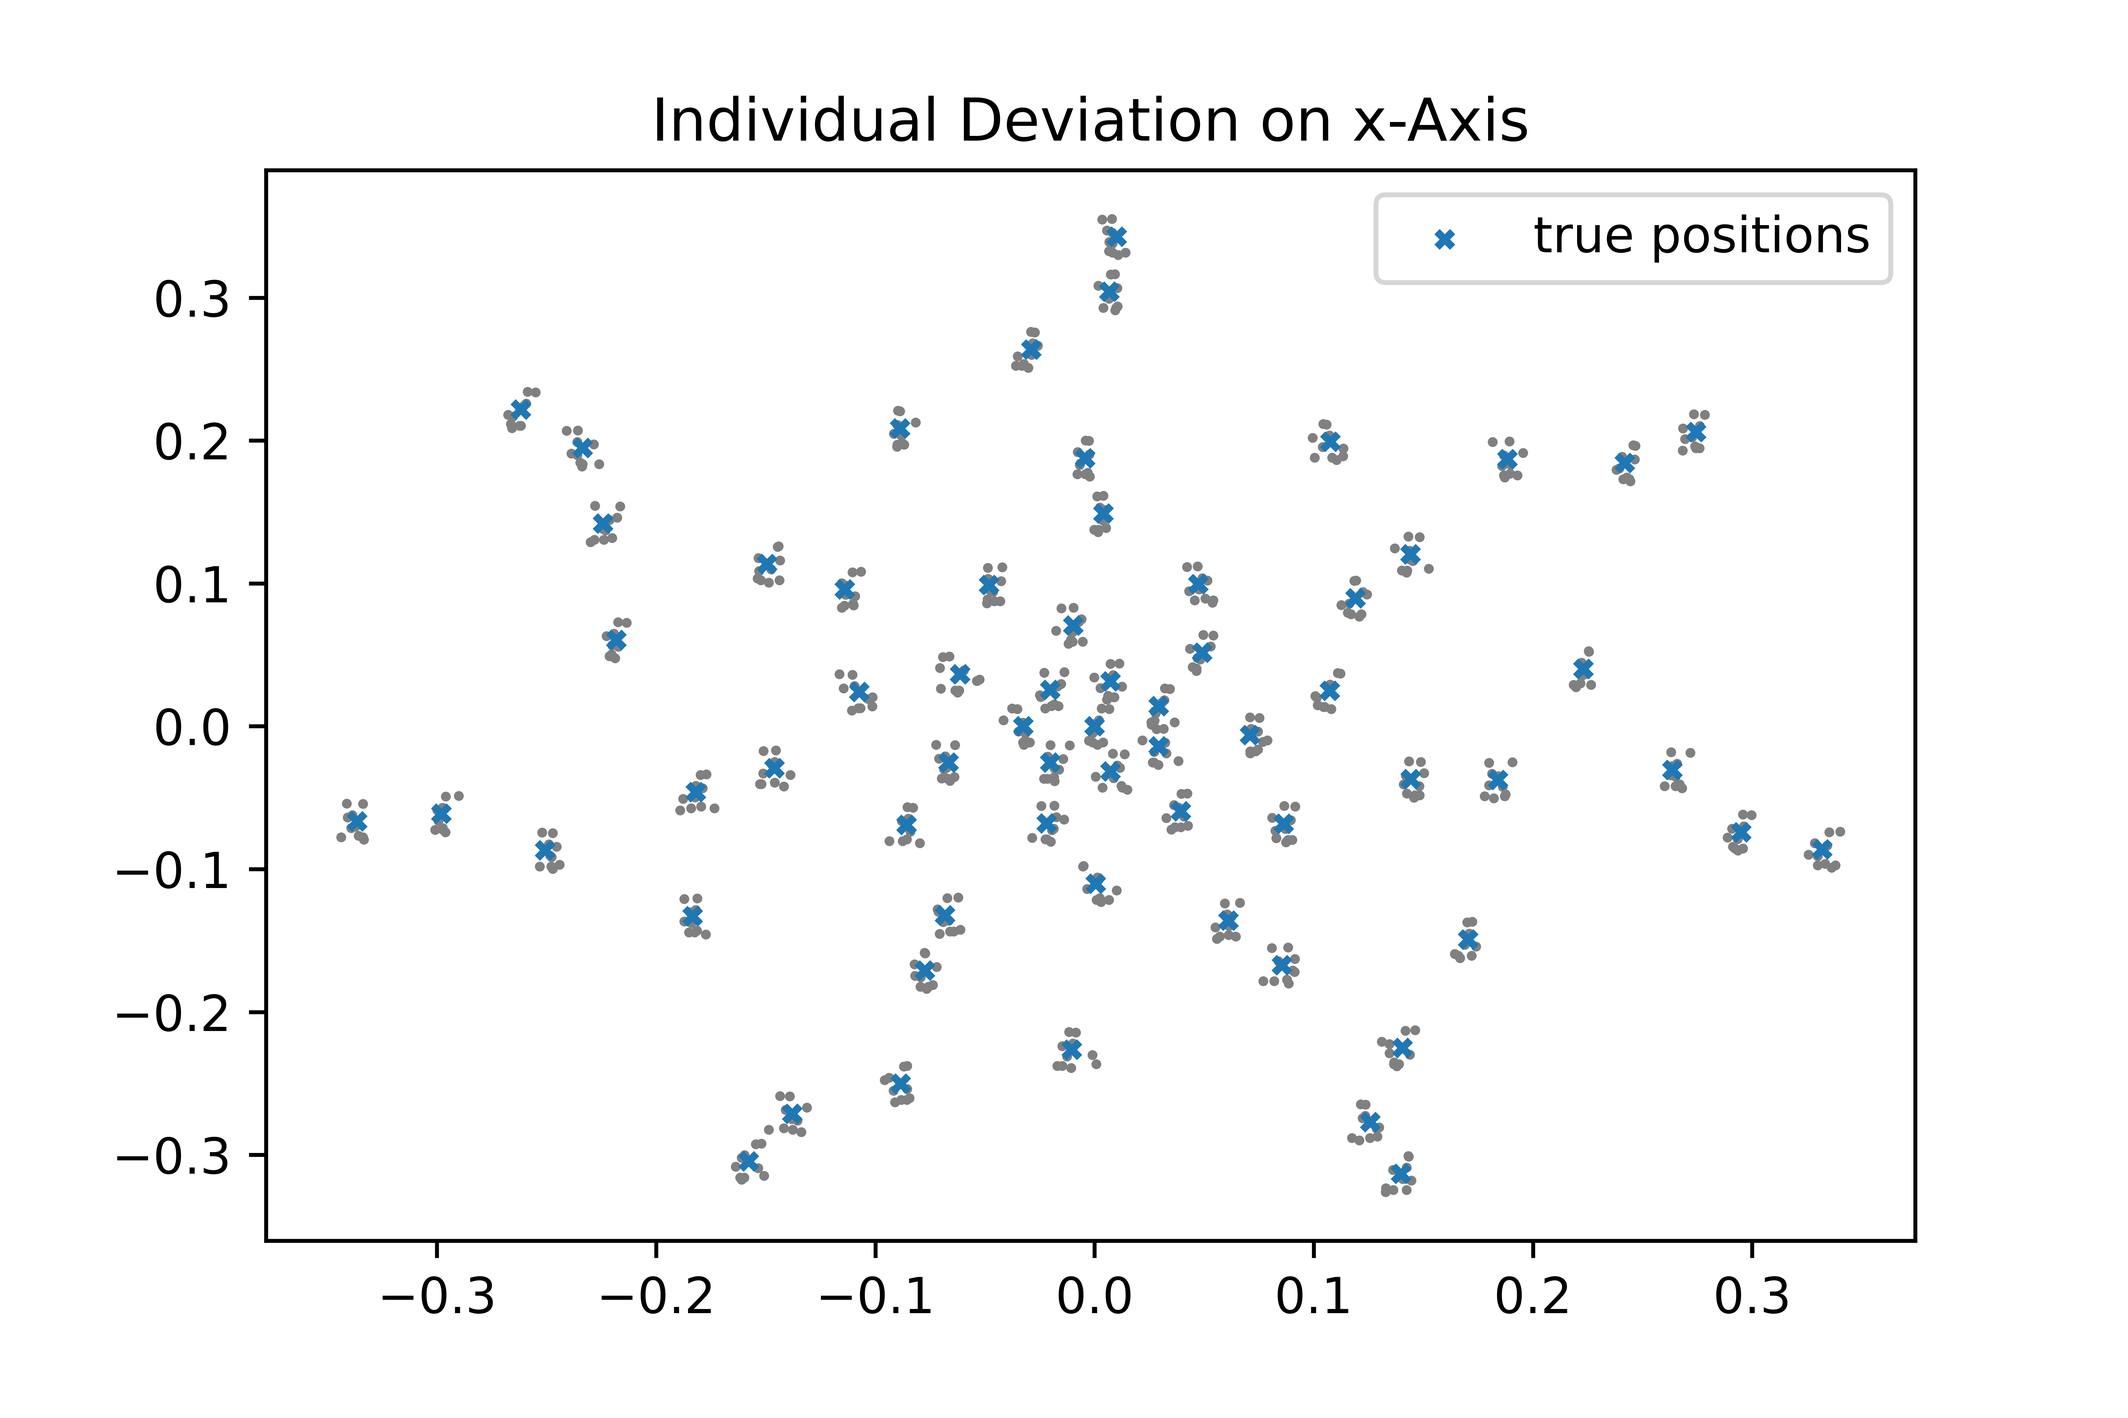
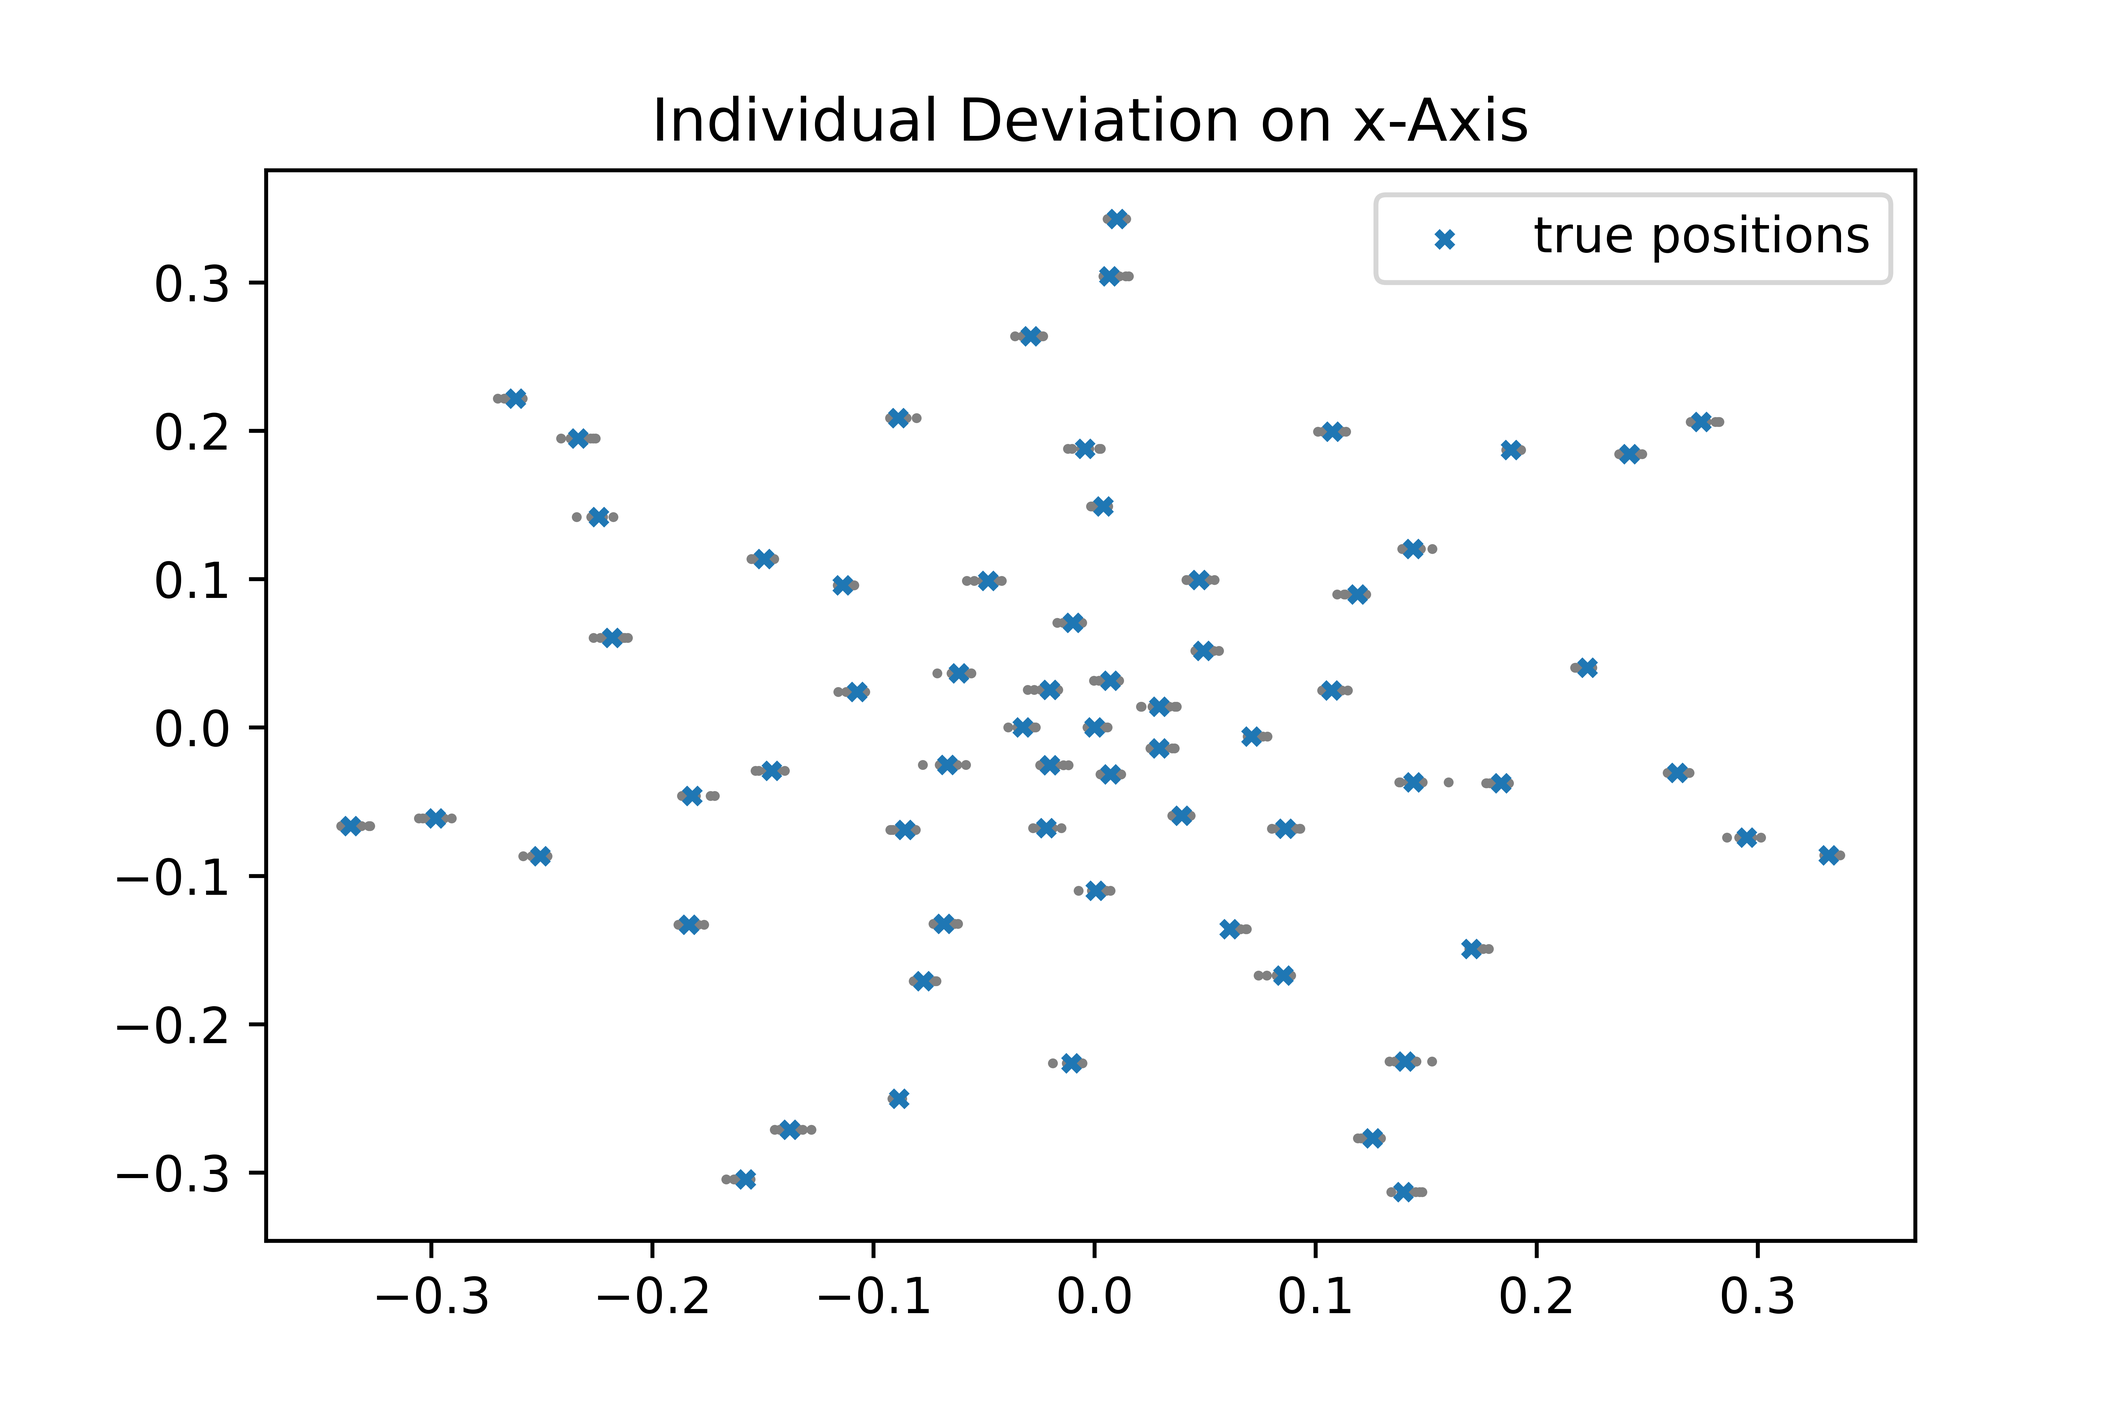
Proofread

diff --git a/examples/micgeom_sampling_example.py b/examples/micgeom_sampling_example.py
@@ -1,4 +1,3 @@
-#%%
 #!/usr/bin/env python3
 # -*- coding: utf-8 -*-
 
@@ -28,29 +27,14 @@ mgs = MicGeomSampler(random_var=normal_distribution,
                      random_state=rng, 
                      target=mics)
 
-#%%
+
 # =============================================================================
 # # first deviate individual microphone positions along x-axis
 # =============================================================================
 mgs.ddir = np.array([[1.],[0],[0]])
 
 plt.figure()
-plt.title("Individual Deviation on x-Axis")
-for _ in range(nsamples):
-    mgs.sample()
-    plt.scatter(mics.mpos[0], mics.mpos[1],marker="o",s=1,color="gray")
-plt.scatter(mgs.mpos_init[0], mgs.mpos_init[1],marker='x',s=10,label="true positions")
-plt.legend()   
-plt.show()
-
-#%%
-# =============================================================================
-# # second: deviate individual microphone positions along x- and y-axis
-# =============================================================================
-mgs.ddir = np.array([[1.],[0.5],[0]])
-
-plt.figure()
-plt.title("Individual Deviation on x- and y- Axis")
+plt.title("individual deviation on x-axis")
 for _ in range(nsamples):
     mgs.sample()
     plt.scatter(mics.mpos[0], mics.mpos[1],marker="o",s=1,color="gray")
@@ -58,7 +42,22 @@ plt.scatter(mgs.mpos_init[0], mgs.mpos_init[1],marker='x',s=10,label="true posit
 plt.legend()    
 plt.show()
 
-#%%
+
+# =============================================================================
+# # second: deviate individual microphone positions along x- and y-axis
+# =============================================================================
+mgs.ddir = np.array([[1.],[0.5],[0]])
+
+plt.figure()
+plt.title("individual deviation on x- and y- axis")
+for _ in range(nsamples):
+    mgs.sample()
+    plt.scatter(mics.mpos[0], mics.mpos[1],marker="o",s=1,color="gray")
+plt.scatter(mgs.mpos_init[0], mgs.mpos_init[1],marker='x',s=10,label="true positions")
+plt.legend()    
+plt.show()
+
+
 # =============================================================================
 # third: rotate around axis
 # =============================================================================
@@ -69,7 +68,7 @@ mgs.ddir = np.array([[0.0],[0.0],[0.0]]) # no individual deviation
 mgs.rvec = np.array([[0], [0], [1]])
 
 plt.figure()
-plt.title("Rotation Around z-Axis")
+plt.title("rotation around z-axis")
 for _ in range(nsamples):
     mgs.sample()
     plt.scatter(mics.mpos[0], mics.mpos[1],marker="o",s=1,color="gray")
@@ -77,7 +76,7 @@ plt.scatter(mgs.mpos_init[0], mgs.mpos_init[1],marker='x',s=10,label="true posit
 plt.legend()    
 plt.show()
 
-#%%
+
 # =============================================================================
 # fourth: translate full array along y-axis
 # =============================================================================
@@ -86,13 +85,10 @@ mgs.rvec = np.array([[0], [0], [0]])
 mgs.tdir = np.array([[0], [2.], [0]])
 
 plt.figure()
-plt.title("Translation of Full Geometry Along y-Axis")
+plt.title("translation of full geometry along y-axis")
 for _ in range(nsamples):
     mgs.sample()
     plt.scatter(mics.mpos[0], mics.mpos[1],marker="o",s=1,color="gray")
 plt.scatter(mgs.mpos_init[0], mgs.mpos_init[1],marker='x',s=10,label="true positions")
 plt.legend()    
-plt.savefig("output.png",dpi=1200) 
 plt.show()
-
-# %%

diff --git a/sphinx/source/contents/dataset.rst b/sphinx/source/contents/dataset.rst
@@ -29,7 +29,7 @@ Docker image from DockerHub_. Simply pull the latest image with the command
     docker pull adku1173/acoupipe:latest
 
 The image contains the simulation source code and an up-to-date version of Acoular_, 
-AcouPipe and Tensorflow_.
+**AcouPipe** and Tensorflow_.
 One can run the dataset simulation given by the main.py script from inside the Docker container by typing
 
 .. code-block:: 
@@ -40,9 +40,9 @@ One can run the dataset simulation given by the main.py script from inside the D
 
 Note that the current user on the host is specified as the user of the docker environment with the additional argument :code:`--user "$(id -u)":"$(id -g)"`.
 It is not recommended to run the container as a root user.
-Further, a directory where the dataset files are stored needs to be binded to the container (:code:`HOSTDIR=<dir>`). With the 
-:code:`HOSTDIR=$(pwd)` command, the current working directory on Linux or macOS hosts are binded. 
-The simulation can be run on multiple CPU threads in parallel to speed up computations. The exact number of threads can be specified by the 
+Further, a directory where the dataset files are stored needs to be bound to the container (:code:`HOSTDIR=<dir>`). With the 
+:code:`HOSTDIR=$(pwd)` command, the current working directory on Linux or macOS hosts is bound. 
+The simulation can be run on multiple CPU threads in parallel to speed up computations and the exact number of threads can be specified by the 
 user with the :code:`--tasks` argument. 
 
 After starting the main script, a progress bar should appear that logs the current simulation status:
@@ -51,7 +51,7 @@ After starting the main script, a progress bar should appear that logs the curre
 
     1%|█▍                           | 83/10000 [01:04<1:40:35,  1.64it/s]
 
-It is possible to view the CPU usage via a dashboard application served by the Ray_ API. One should find the following output at the beginning 
+It is possible to view the CPU usage in a dashboard application served by the Ray_ API. One should find the following output at the beginning 
 of the simulation process when running the simulation on multiple CPU threads
 
 .. code-block:: 
@@ -69,7 +69,7 @@ One can open the dashboard by accessing the web address http://0.0.0.0:8265 whic
 The main.py script has some further command line options that can be used to influence the simulation process:
 
 
-.. code-block::
+.. code-block:: bash
     :caption: command line arguments of the main.py script
 
     usage: main.py [-h]
@@ -155,7 +155,7 @@ be scheduled with the SLURM_ job manager and by using a Singularity_ image.
     # Start the ray head node on the node that executes this script by specifying --nodes=1 and --nodelist=`hostname`
     # We are using 1 task on this node and 5 CPUs (Threads). Have the dashboard listen to 0.0.0.0 to bind it to all
     # network interfaces. This allows to access the dashboard through port-forwarding:
-    # z. B.: ssh -N -f -L 8265:10.254.1.100:8265 kujawski@130.149.110.144 
+    # e.g.: ssh -N -f -L 8265:10.254.1.100:8265 kujawski@130.149.110.144 
     srun --nodes=1 --ntasks=1 --cpus-per-task=${SLURM_CPUS_PER_TASK} --nodelist=`hostname` singularity exec -B $DIRPATH $IMGNAME ray start --head --block --dashboard-host 0.0.0.0 --port=6379 --num-cpus ${SLURM_CPUS_PER_TASK} &
     sleep 10
 
@@ -167,7 +167,7 @@ be scheduled with the SLURM_ job manager and by using a Singularity_ image.
 
     singularity exec -B $DIRPATH $IMGNAME python -u $DIRPATH/main.py --head=${ip_head} --tasks=${total_cores}
 
-dataset Characteristics
+Dataset Characteristics
 -------------------------
 
 **fixed characteristics:**
@@ -178,17 +178,17 @@ Microphone Array      Vogel's spiral, M=64, Aperture Size 1m
 Observation Area      x,y in [-0.5,0.5], z=0.5
 Source Type           Monopole 
 Source Signals        Uncorrelated White Noise (T=5s)
-Sampling Rate         He = 40, Fs=13720 Hz 
+Sampling Rate         He = 40, f=13720 Hz 
 No. of Time Samples   68.600 
 ===================== ========================================
 
 **sampled characteristics:**
 
 ==================================================================   ===================================================  
-Sensor Position Deviation [m]                                        Normal distributed (sigma = 0.001)
-No. of Sources                                                       Poisson distributed (lambda=3)
-Source Positions                                                     Normal distributed (sigma = 0.1688) 
-Source Strength (Pa^2 at reference microphone)                       Rayleigh distributed (sigma_R=5)
+Sensor Position Deviation [m]                                        Normal Distributed (sigma = 0.001)
+No. of Sources                                                       Poisson Distributed (lambda=3)
+Source Positions                                                     Normal Distributed (sigma = 0.1688) 
+Source Strength (:math:`{Pa}^2` at reference microphone)             Rayleigh Distributed (sigma_R=5)
 ==================================================================   ===================================================
 
 Input Features
@@ -205,11 +205,11 @@ approach stated in [Cas21]_ (the conjugate complex of the normal CSM is neglecte
 The underlying processing parameters used to calculate the CSM and/or the source map are:
 
 ===================== ========================================  
-Block size            128 samples
+Block size            128 Samples
 Block overlap         50 %
 Windowing             von Hann / Hanning
-Steering vector       fromulation 3, see [Sar12]_
-Evaluation basis      single frequency coefficient
+Steering vector       Formulation 3, see [Sar12]_
+Evaluation basis      Single Frequency Coefficient
 ===================== ========================================
 
 with the following FFT frequency indices, frequencies and Helmholtz numbers:
@@ -366,7 +366,7 @@ The descending order is not strictly maintained when only a single frequency coe
 **Source location:** :code:`'loc'`
 
 The location in the x,y plane of each source is stored. Non-existing source locations are set to zero (center of the plane).
-The source location array is of shape (10,2). The source ordering is the same as for the source strength estimate :code:`p2`.
+The source location array is of shape (10,2). The source order is the same as for the source strength estimate :code:`p2`.
 
 **Number of sources:** :code:`'nsources'`
 
@@ -379,8 +379,8 @@ The index referencing the sampled case in the dataset (starts at 1).
 **Involved random seeds:** :code:`'seeds'`
 
 A list with random seeds for each object that performs a random sampling of dataset properties.
-The combination is unique for each source case in the dataset. This enables to re-simulate every 
-specific sample of the dataset. 
+The combination is unique for each source case in the dataset. This makes it possible to re-simulate any 
+specific sample of the dataset.
 
 File Formats
 ~~~~~~~~~~~~~~~~~~~~~~~~~~~~~
@@ -416,8 +416,7 @@ An additional :code:`metadata` group includes important metadata (e.g. sampling 
         |   'sample_freq'
         |   ...
 
-Correct order is always maintained.  
-This is important when multiple source cases are simulated in parallel tasks.
+The orrect order is always maintained, which is important when multiple source cases are simulated in parallel tasks.
 
 **TFRecord format**
 
@@ -443,7 +442,7 @@ The AcouPipe toolbox provides the :code:`LoadH5Dataset` class to load the datase
     print(dataset.metadata) # prints the corresponding metadata information
 
 
-A Python generator can be created which can be consumed by the `Tensorflow Dataset API`_:
+With these definitions, a Python generator can be created which can be consumed by the `Tensorflow Dataset API`_:
 
 .. code-block:: Python
 

diff --git a/sphinx/source/contents/documentation.rst b/sphinx/source/contents/documentation.rst
@@ -64,14 +64,14 @@ Sampler Module
 ~~~~~~~~~~~~~~~~~~~~~~~~~~~~~
 
 A manipulation of object characteristics according to a certain 
-random distribution can be achieved by the use of the :code:`BaseSampler` derived classes included in the :code:`sampler.py` module. 
-All :code:`BaseSampler` derived classes are representing random processes that can be used to manipulate the attributes of Acoular's objects according to a specified distribution. 
+random distribution can be achieved by using the :code:`BaseSampler` derived classes included in the :code:`sampler.py` module. 
+All :code:`BaseSampler` derived classes represent random processes that can be used to manipulate the attributes of Acoular's objects according to a specified distribution. 
 A random process is defined by a random variable and a corresponding random state. Both properties are attributes of all :code:`BaseSampler` derived classes. 
 AcouPipe offers a variety of different types of samplers in the :code:`sampler.py` module.
-The random variable that can be passed to class instances of the sampler module must be an derived from or be part of the :code:`scipy.stats` module. 
+The random variable that can be passed to class instances of the sampler module must either be derived from or be part of the :code:`scipy.stats` module. 
 
-This example illustrates how the RMS value of two white noise signals can be sampled according to a normal distribution. Therefore, an instance of the :code:`BaseSampler` 
-derived :code:`NumericAttributeSampler` class is used. The two white noise signal objects are given as targets to the sampler object. 
+This example illustrates how the RMS value of two white noise signals can be sampled according to a normal distribution. For this purpose, an instance of the :code:`BaseSampler` 
+derived :code:`NumericAttributeSampler` class is used. The two :code:`WNoiseGenerator` objects are given as targets to the sampler object. 
 New RMS values following a normal distribution are assigned to the :code:`WNoiseGenerator` objects each time the sample method of the :code:`NumericAttributeSampler` object is evaluated.    
 
 .. code-block:: python
@@ -107,9 +107,8 @@ Pipeline Module
 Classes defined in the :code:`pipeline.py` module have the ability to iteratively perform tasks on the related computational pipeline to build up a dataset. 
 The results of these tasks are the features (and labels) associated with a specific sample of the dataset. 
 Feature creation tasks can be specified by passing callable functions that are evoked at each iteration of the :code:`BasePipeline`'s :code:`get_data()` generator method. 
-It is worth noting that such a data generator can also be used directly to feed a machine learning model without saving the data to file. 
-Common machine learning frameworks, such as Tensorflow_, offer the possibility to consume data from Python generators.
-Control about the state of the sampling process is maintained via the :code:`sampler` attribute holding a list of :code:`BaseSampler` derived instances. 
+It is worth noting that such a data generator can also be used directly to feed a machine learning model without saving the data to file, as common machine learning frameworks, such as Tensorflow_, offer the possibility to consume data from Python generators.
+Control of the state of the sampling process is maintained via the :code:`sampler` attribute holding a list of :code:`BaseSampler` derived instances. 
 
 .. code-block:: python
 
@@ -127,9 +126,8 @@ Control about the state of the sampling process is maintained via the :code:`sam
 
 Writer Module
 ~~~~~~~~~~~~~~~~~~~~~~~~~~~~~
-Provides classes to store the data extracted by the pipeline. 
-Current implementation includes a classes to save data into a 
-container-like file format (.h5 file with the :code:`WriteH5Dataset` class) or binary format (.tfrecord file with the :code:`WriteTFRecord` class). 
+The :code:`writer.py` model provides classes to store the data extracted by the pipeline. 
+The current implementation includes classes to save data in a container-like file format (.h5 file with the :code:`WriteH5Dataset` class) or binary format (.tfrecord file with the :code:`WriteTFRecord` class). 
 The latter can be efficiently consumed by the Tensorflow framework for machine learning.
 
 .. code-block:: python

diff --git a/sphinx/source/contents/example.rst b/sphinx/source/contents/example.rst
@@ -120,7 +120,7 @@ Rotating the entire array around the z-axis is done using the *rotation vector* 
 .. figure:: ../_static/example_3.png
     :width: 780
 
-Finally, the *direction of translation* attribute :code:`mgs.tdir` can be set in order to translate the entire array. Here, it is shifted alonge the y-axis.
+Finally, the *direction of translation* attribute :code:`mgs.tdir` can be set in order to translate the entire array. Here, it is shifted along the y-axis.
 Note that the *rotation vector* attribute :code:`mgs.rvec` needs to be set to zero again.
 
 .. code-block:: Python
